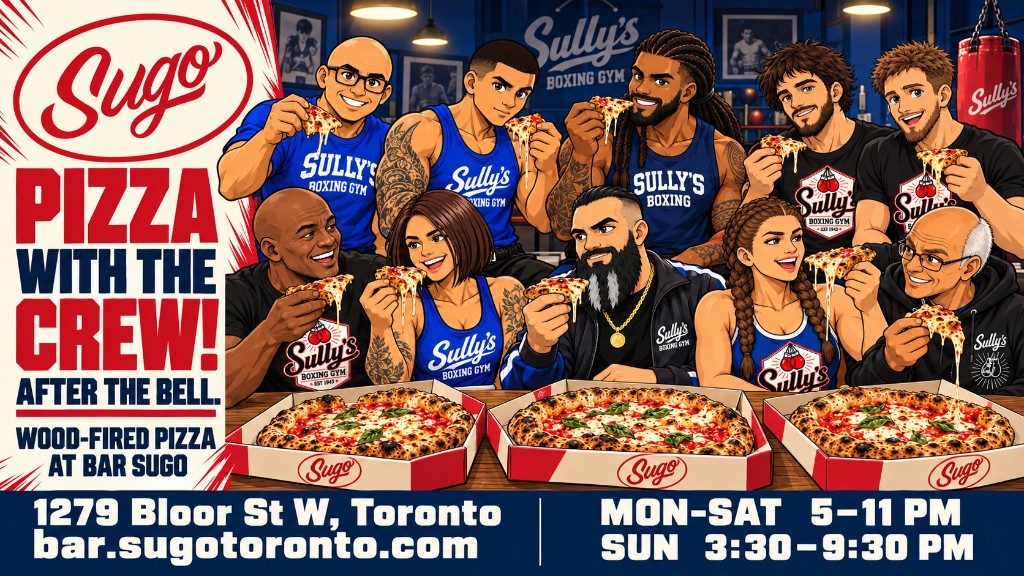
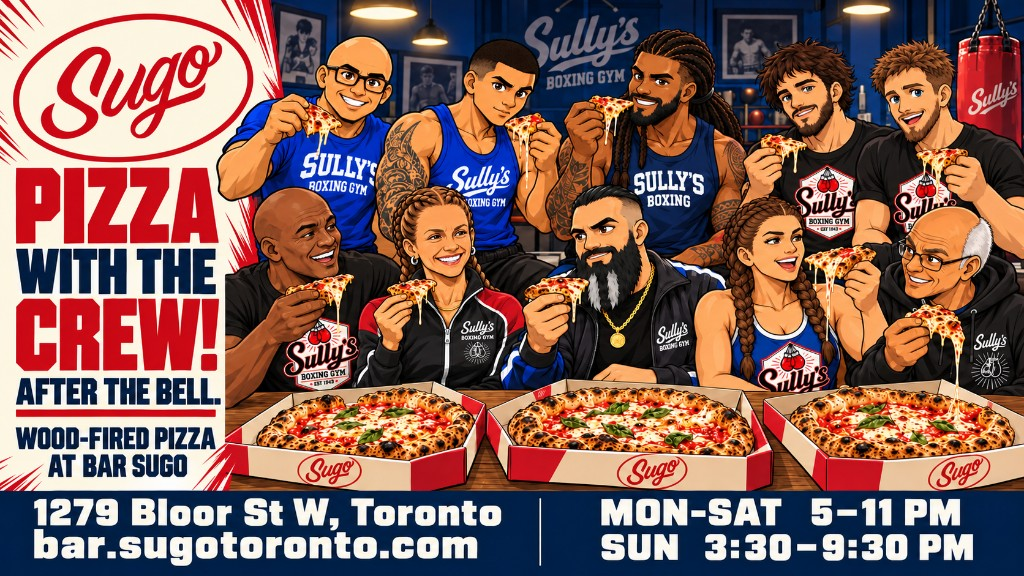
Replace the Sugo crew poster with the updated Jackie art.
The floor mix keeps Pizza with the Crew and now shows the new crew.

diff --git a/apps/web/src/app/tv/tv-art-popup.tsx b/apps/web/src/app/tv/tv-art-popup.tsx
@@ -1148,7 +1148,7 @@ const SCHEDULE_ADS = [
 const SPONSOR_ADS = [
   {
     mode: "sponsor_poster",
-    hero: "/tv/sponsors/sugo-crew.jpg",
+    hero: "/tv/sponsors/sugo-crew.jpg?v=3",
     h1: "PIZZA",
     h2: "CREW.",
     msg: "SUGO · PIZZA WITH THE CREW",
